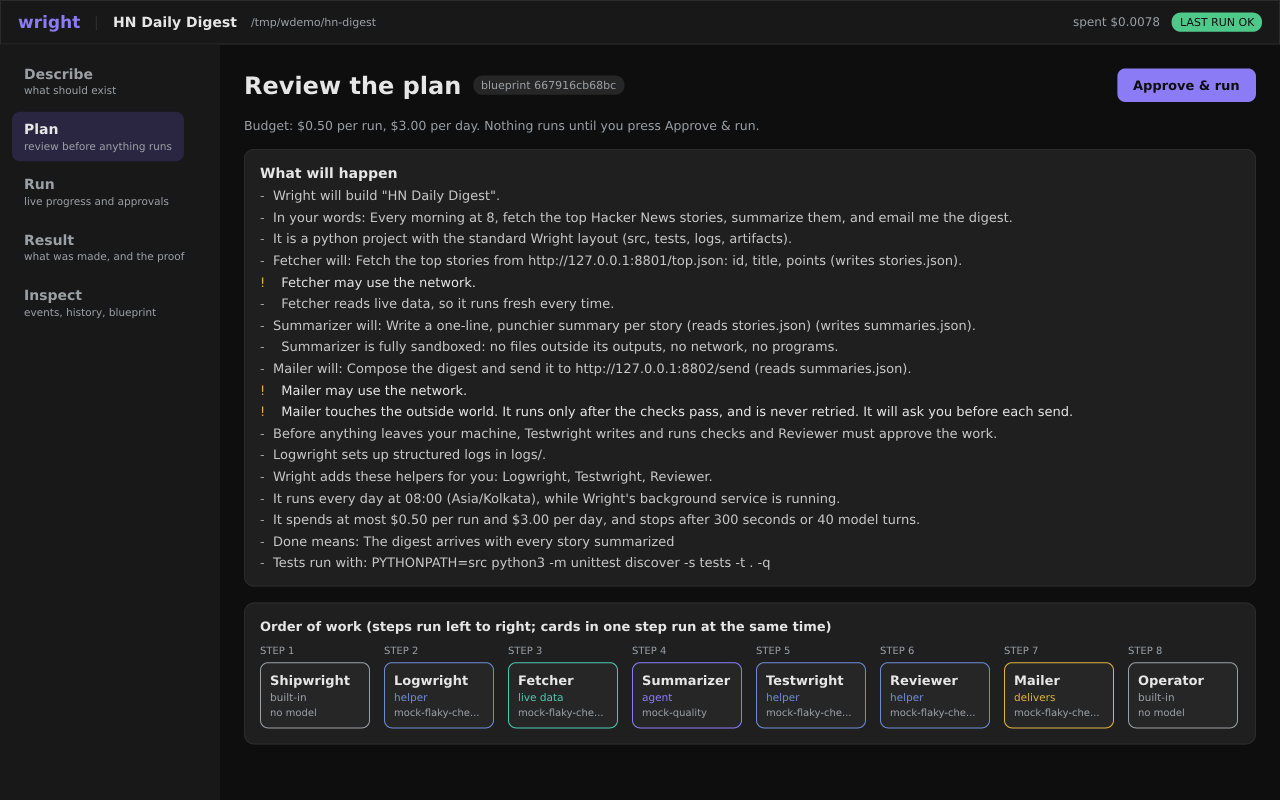
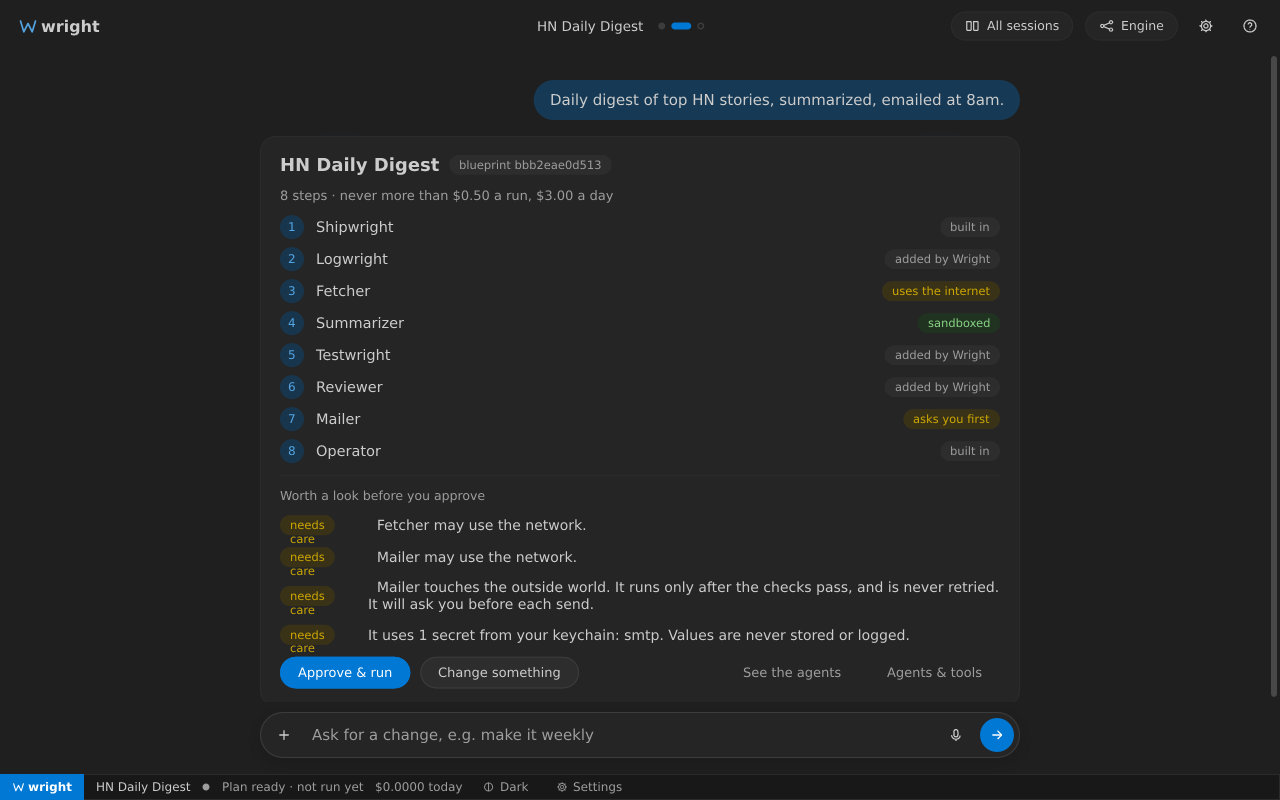
Refresh wrightsite product screenshots from the current shell
The four product-page screens (1-describe..4-result) still depicted the
old stepper UI. This replaces them with captures from the current
conversation shell (home / confirm gate / firing / receipt), taken by a
new ui test (the_site_screens) that drives the real shell on the mock
provider, so the page and the app can no longer drift apart.

Also refreshes docs/screens/run-approval.png to match.

diff --git a/vieww_base/apps/wright/app/src/ui/tests.rs b/vieww_base/apps/wright/app/src/ui/tests.rs
@@ -25,6 +25,129 @@ fn scroll(dx: f32, t: u64) -> ScrollEvent {
     ScrollEvent { position: Offset::new(600.0, 400.0), delta: Offset::new(dx, 0.0), timestamp: Duration::from_millis(t) }
 }
 
+/// The four product-page screens (`apps/wrightsite/assets/`), captured from
+/// the real shell so the page cannot drift from the app: describe (Home with
+/// the request typed), the confirm gate (the plan card, before anything
+/// runs), the firing (the engine live, the gate up), and the receipt. Runs
+/// against the mock provider, offline; writes to `WRIGHT_UI_SHOTS`.
+#[test]
+fn the_site_screens() {
+    let home = temp("site-shots");
+    std::env::set_var("WRIGHT_HOME", &home);
+    let mock = wright_engine::mock::MockProvider::start(0).unwrap();
+    std::fs::write(home.join("config.kdl"), format!("provider \"mock\" base=\"{}\" models=\"*\"\nvoice model=\"mock-whisper\"\n", mock.base_url())).unwrap();
+    std::env::set_var("WRIGHT_ALLOW_PRIVATE_NETWORK", "1");
+
+    // A local sink the demo's Fetcher reads from and the Mailer delivers to,
+    // so the firing exercises the network, the gate and the delivery.
+    let sink = std::net::TcpListener::bind("127.0.0.1:0").unwrap();
+    let port = sink.local_addr().unwrap().port();
+    std::thread::spawn(move || {
+        use std::io::{Read as _, Write as _};
+        for s in sink.incoming().flatten() {
+            let mut s = s;
+            let mut buf = [0u8; 65536];
+            let _ = s.read(&mut buf);
+            let _ = s.write_all(b"HTTP/1.1 200 OK\r\nContent-Type: application/json\r\nContent-Length: 2\r\n\r\nok");
+        }
+    });
+
+    // The demo project the page's story tells: the repository's own
+    // hn-digest blueprint, aimed at the sink so the gate is real.
+    let dir = temp("hn-digest");
+    let bp = std::fs::read_to_string(concat!(env!("CARGO_MANIFEST_DIR"), "/../examples/hn-digest/blueprint.kdl"))
+        .unwrap()
+        .replace(
+            "goal \"Fetch top 30 HN stories: id, title, url, points\"",
+            &format!("goal \"Fetch the top stories from http://127.0.0.1:{port}/top.json: id, title, url, points\""),
+        )
+        .replace(
+            "goal \"Compose and send the digest email\"",
+            &format!("goal \"Compose and send the digest to http://127.0.0.1:{port}/send\""),
+        );
+    std::fs::write(dir.join("blueprint.kdl"), bp).unwrap();
+
+    let out = std::env::var("WRIGHT_UI_SHOTS").map(PathBuf::from).unwrap_or_else(|_| std::env::temp_dir());
+    std::fs::create_dir_all(&out).unwrap();
+    let size = Size::new(1280.0, 800.0);
+    let mut clock = 0u64;
+    // Frames until the stage's fades and glides have settled: the shell's
+    // transitions run on the frame clock, so a capture taken too soon
+    // catches them halfway.
+    let mut settle = |driver: &mut FrameDriver, ui: &Ui, frames: usize| {
+        for _ in 0..frames {
+            clock += 16;
+            ui.pump(driver);
+            driver.draw_frame_at(Duration::from_millis(clock));
+        }
+    };
+
+    // ── 1-describe: Home, the request typed, nothing sent yet ──
+    let mut driver = FrameDriver::new(size);
+    shell::register(&mut driver);
+    let ui = Ui::new(driver.elements().runtime(), None, std::sync::Arc::new(std::sync::atomic::AtomicBool::new(false)));
+    driver.set_root(shell::root(&ui));
+    ui.splash.set(false);
+    ui.home.prompt.set(TextEditingValue::new(
+        "Every morning at 8, fetch the top Hacker News stories, summarize them, and email me the digest.",
+    ));
+    settle(&mut driver, &ui, 8);
+    let (png, _) = NativeRenderer::new().render_to_png(driver.scene(), 1280, 800, ui.pal().ground).unwrap();
+    std::fs::write(out.join("1-describe.png"), png).unwrap();
+    drop(driver);
+
+    // ── a second launch, straight into the project: the plan, before
+    //    anything has run ──
+    let mut driver = FrameDriver::new(size);
+    shell::register(&mut driver);
+    let ui = Ui::new(driver.elements().runtime(), Some(dir.clone()), std::sync::Arc::new(std::sync::atomic::AtomicBool::new(false)));
+    driver.set_root(shell::root(&ui));
+    ui.splash.set(false);
+    settle(&mut driver, &ui, 8);
+    let (png, _) = NativeRenderer::new().render_to_png(driver.scene(), 1280, 800, ui.pal().ground).unwrap();
+    std::fs::write(out.join("2-plan.png"), png).unwrap();
+
+    let s = ui.current_session().expect("the project opened as a session");
+    assert!(s.plan.get().is_some(), "the blueprint is on disk, so the plan is ready");
+
+    // ── 3-run: the firing. The thread scrolled to the gate: the run card's
+    //    steps with their last notes, and the Mailer's approval card ──
+    s.start_run();
+    let mut saw_card = false;
+    let deadline = Instant::now() + Duration::from_secs(120);
+    while s.result.get().is_none() && Instant::now() < deadline {
+        settle(&mut driver, &ui, 1);
+        if let Some((run, n, agent, _)) = s.approvals.get().first().cloned() {
+            if !saw_card {
+                saw_card = true;
+                assert_eq!(agent, "Mailer", "the before-send gate belongs to the Mailer");
+                s.scroll.to_end();
+                settle(&mut driver, &ui, 40);
+                let (png, _) = NativeRenderer::new().render_to_png(driver.scene(), 1280, 800, ui.pal().ground).unwrap();
+                std::fs::write(out.join("3-run.png"), png).unwrap();
+                // The same moment with the engine open on the live graph.
+                ui.set_engine(EngineView::Open);
+                settle(&mut driver, &ui, 40);
+                let (png, _) = NativeRenderer::new().render_to_png(driver.scene(), 1280, 800, ui.pal().ground).unwrap();
+                std::fs::write(out.join("3-run-engine.png"), png).unwrap();
+                ui.set_engine(EngineView::Hidden);
+                settle(&mut driver, &ui, 40);
+            }
+            s.answer_approval(run, n, true);
+        }
+        std::thread::sleep(Duration::from_millis(20));
+    }
+    assert!(saw_card, "the approval request reached the UI");
+    let r = s.result.get().expect("the run finished");
+    assert!(r.ok, "{}", r.headline);
+
+    // ── 4-result: the receipt, with the run card above it ──
+    s.scroll.to_end();
+    settle(&mut driver, &ui, 40);
+    let (png, _) = NativeRenderer::new().render_to_png(driver.scene(), 1280, 800, ui.pal().ground).unwrap();
+    std::fs::write(out.join("4-result.png"), png).unwrap();
+}
+
 #[test]
 fn the_shell_end_to_end() {
     let home = temp("home");
